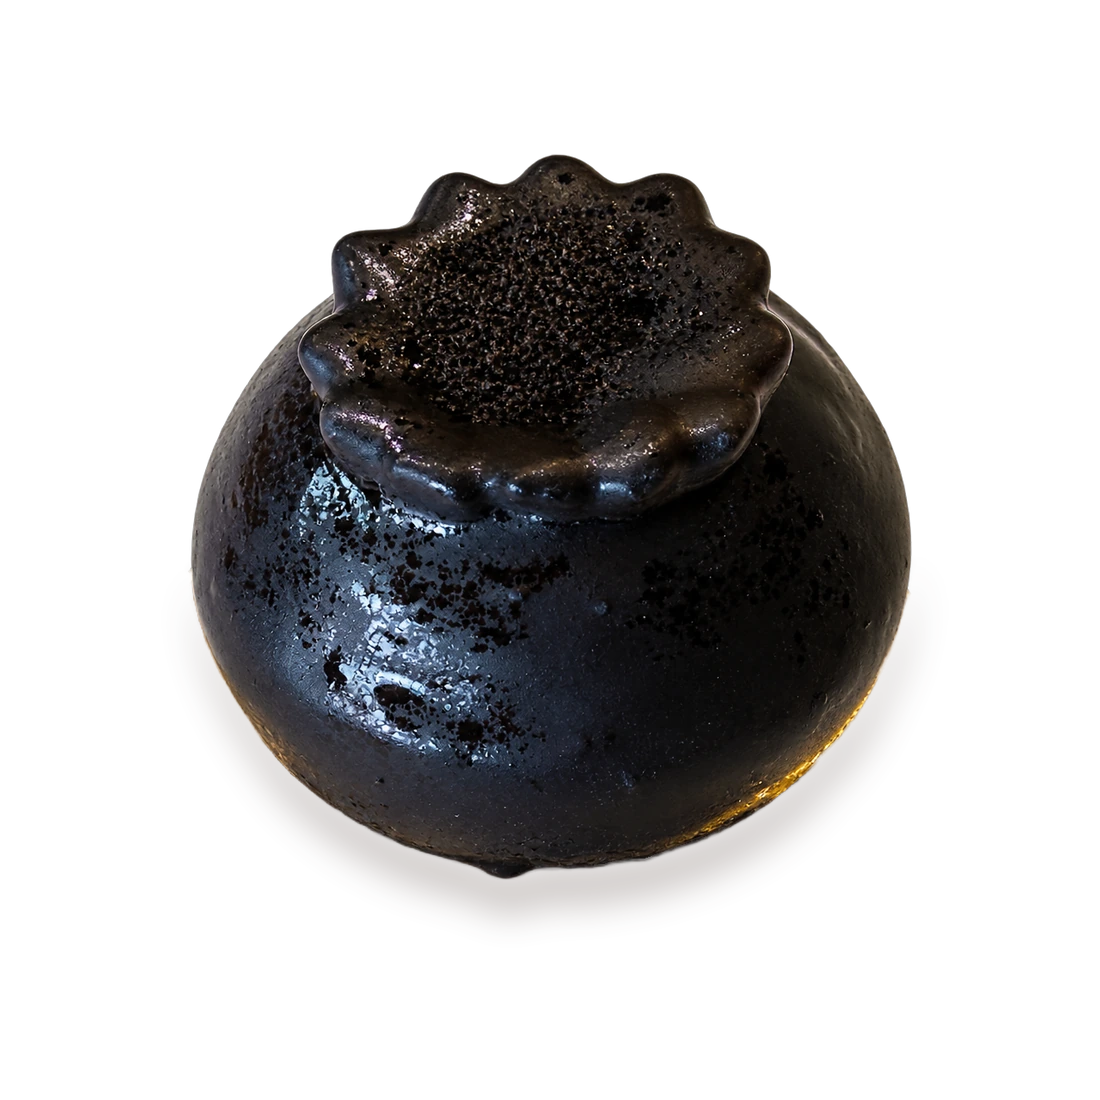
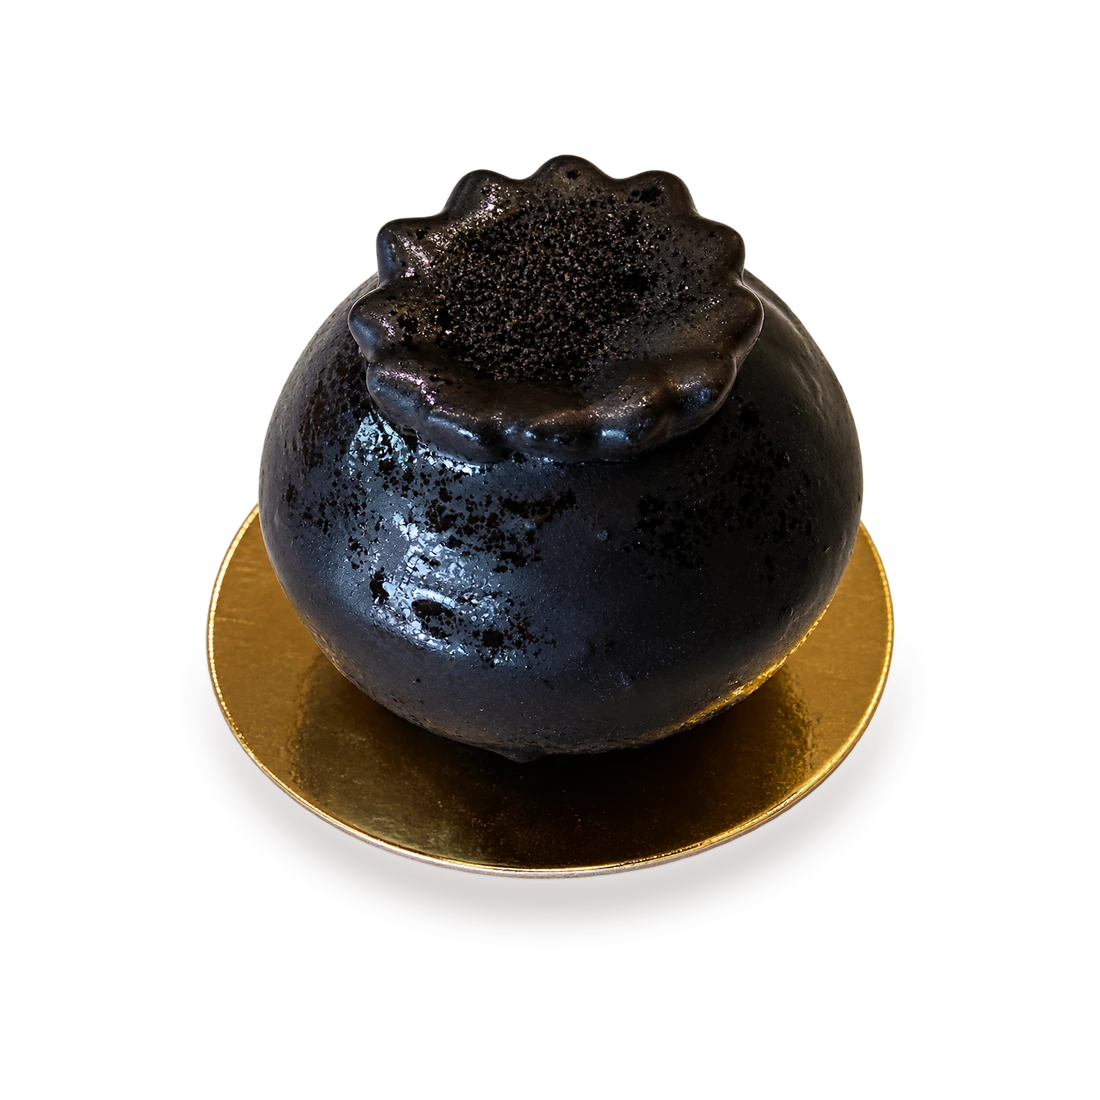
Pastries: Blueberry Tart con su base dorada
Claude-Session: https://claude.ai/code/session_01C9ppkekJrs6j71wqx2EVeV

Changed region(s): [[0.1545, 0.1236, 0.8345, 0.8036]]

diff --git a/index.html b/index.html
@@ -365,7 +365,7 @@ const PHOTOS={choc_strawberries:1,raspberry_cream_puff:2,strawberry_cream_puff:2
 P.forEach(p => { if (SEASONAL[p.id]) p.seasonal = true; if (PHOTOS[p.id]){ p.photo = true; p.views = PHOTOS[p.id]; } });
 
 
-const BUILD = '202611091955';
+const BUILD = '202611092007';
 let lang = 'es', cat = 'cupcakes', tag = null, current = -1, view = 'out', list = [];
 try { const s = JSON.parse(localStorage.getItem('ytb-cat') || '{}'); if (s.lang) lang = s.lang; } catch(e) {}
 const $ = id => document.getElementById(id);
